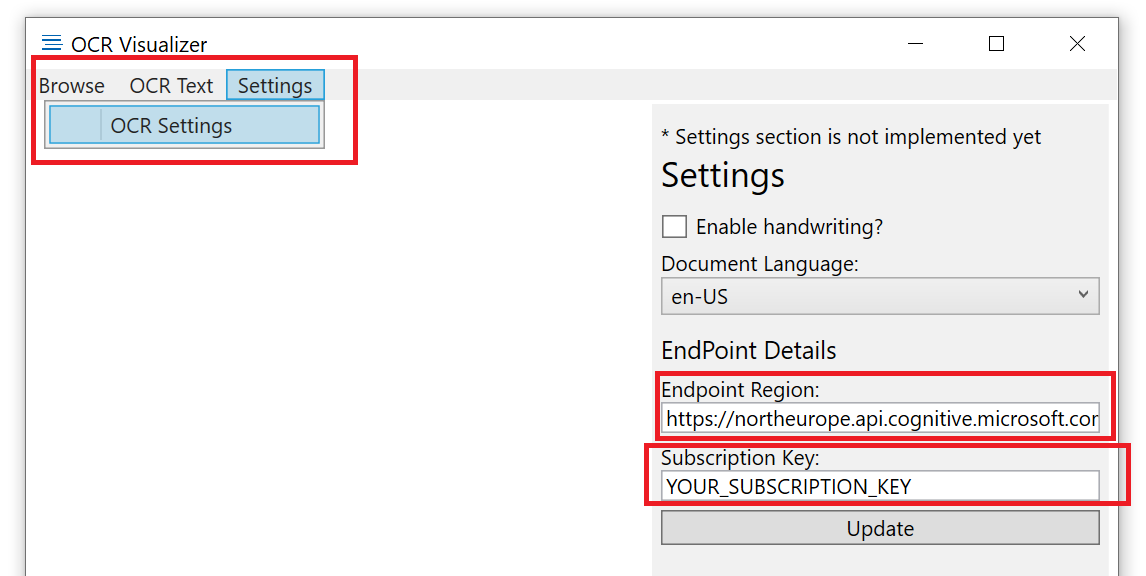
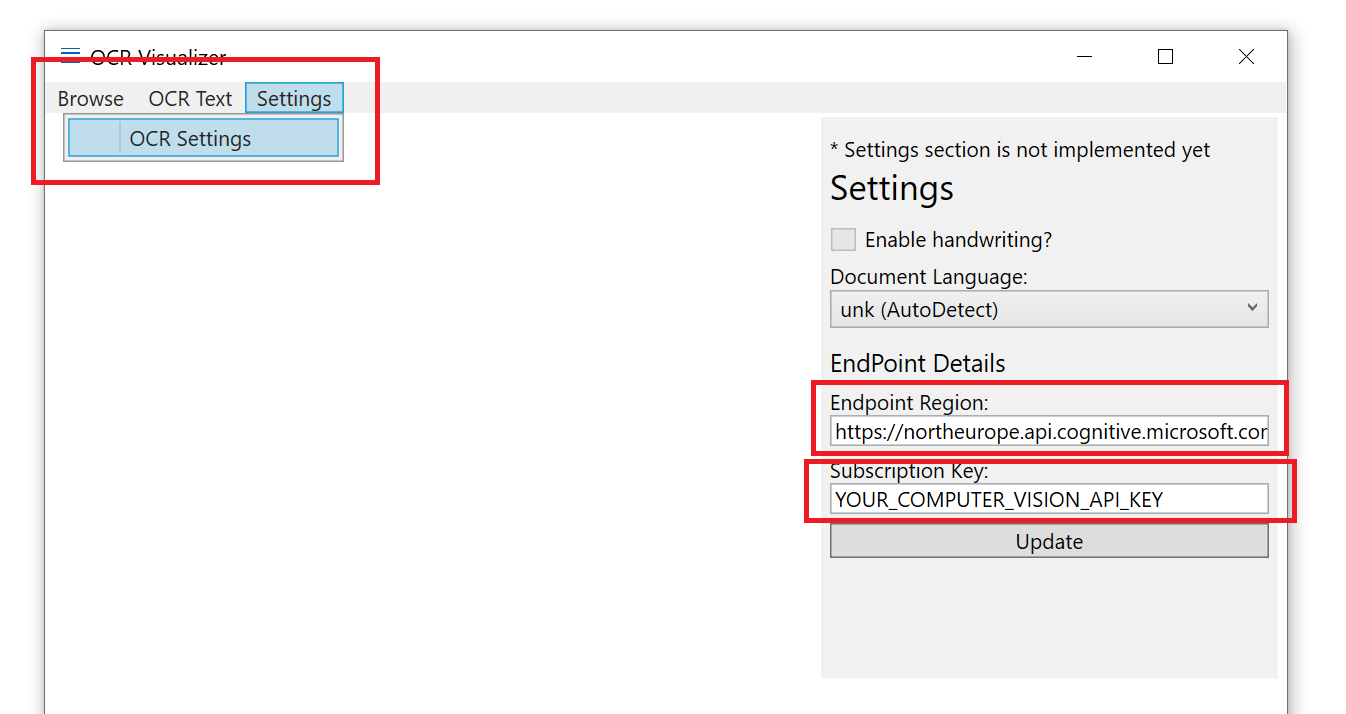
Supported languages
Supported languages

Changed region(s): [[0.0, 0.0, 1.0, 1.0], [0.5803, 0.1875, 0.9162, 0.3438]]

diff --git a/README.md b/README.md
@@ -14,7 +14,7 @@ If you would like to test OCR visualizer on your local, download Setup File and 
 
 * [Download OCRVisualizer Executable File on Windows](Setup/Release_Setup.zip) 
 
-![](screenshots/setup.png)
+![](screenshots/setup.png) 
 
 
 ## Build the project
@@ -32,6 +32,7 @@ Microsoft Cognitive Services Computer Vision Endpoint details.
   <appSettings>
     <add key="subscriptionKey" value="YOUR_COMPUTER_VISION_API_KEY" />
     <add key="endpointRegion" value="https://northeurope.api.cognitive.microsoft.com/vision/v2.0/ocr" />
+    <add key="documentLanguage" value="unk" />
   </appSettings>
 </configuration>
 ```
@@ -49,5 +50,34 @@ OCR from full page documents
 
 
 For more information about Optical character recognition (OCR) in images | [Demo](https://azure.microsoft.com/en-us/services/cognitive-services/computer-vision/#text) | [Container Support](https://docs.microsoft.com/en-us/azure/cognitive-services/computer-vision/computer-vision-how-to-install-containers)
+
+## OCR Supported languages:
+* unk (AutoDetect)
+* zh-Hans (ChineseSimplified)
+* zh-Hant (ChineseTraditional)
+* cs (Czech)
+* da (Danish)
+* nl (Dutch)
+* en (English)
+* fi (Finnish)
+* fr (French)
+* de (German)
+* el (Greek)
+* hu (Hungarian)
+* it (Italian)
+* ja (Japanese)
+* ko (Korean)
+* nb (Norwegian)
+* pl (Polish)
+* pt (Portuguese,
+* ru (Russian)
+* es (Spanish)
+* sv (Swedish)
+* tr (Turkish)
+* ar (Arabic)
+* ro (Romanian)
+* sr-Cyrl (SerbianCyrillic)
+* sr-Latn (SerbianLatin)
+* sk (Slovak)
 
 Thanks.
